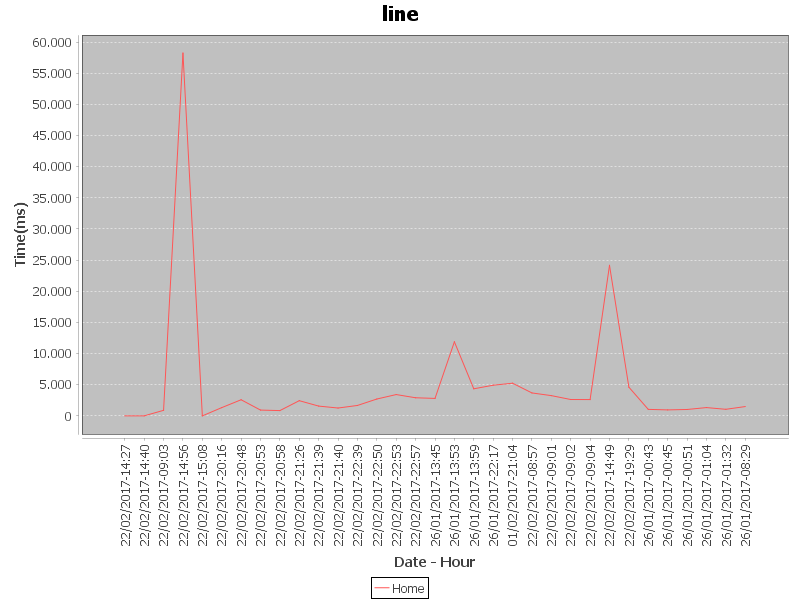
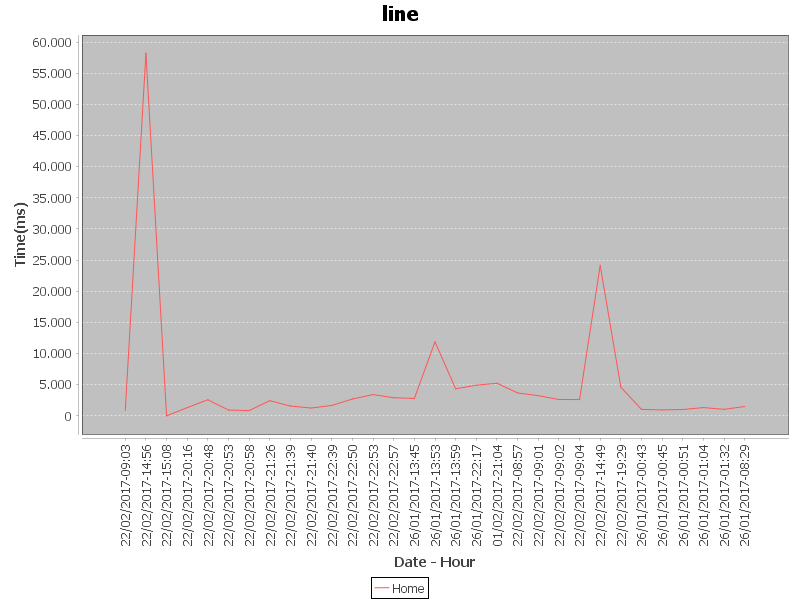
"Open test scenario" seems to be working fine

diff --git a/GUIViewIt/src/br/ufop/Main.java b/GUIViewIt/src/br/ufop/Main.java
@@ -463,21 +463,27 @@ public class Main extends Application {
             JAXBContext context = JAXBContext
                     .newInstance(TestScenarioListWrapper.class);
             Unmarshaller um = context.createUnmarshaller();
-            
-            System.out.println("1");
+
             try{
             	TestScenarioListWrapper wrapper = (TestScenarioListWrapper) um.unmarshal(file);
             	
-            	//JAXBContext jc = JAXBContext.newInstance(Customer.class, Address.class, PhoneNumber.class);
-            	System.out.println("2");
                 data.clear();
                 data.addAll(wrapper.getActions());
-                System.out.println("3");
-                for(int i = 0; i < data.size(); i++){
-                	System.out.println("Tamanho da lista de acoes: " + data.size());
-                	System.out.println(data);
-                }
-                
+//                System.out.println(wrapper.getX_times());
+//                System.out.println(wrapper.getY_interval());
+//                System.out.println(wrapper.getURL());
+                getTestInput().setX_times(wrapper.getX_times());
+                getTestInput().setY_interval(wrapper.getY_interval());
+                getTestInput().setURL(wrapper.getURL());
+//                System.out.println(getTestInput().getX_times());
+//                System.out.println(getTestInput().getY_interval());
+//                System.out.println(getTestInput().getURL());
+//                for(int i = 0; i < data.size(); i++){
+//                	System.out.println("Tamanho da lista de acoes: " + data.size());
+//                	System.out.println(data);
+//                }
+      
+                showTestCreationView();
                 setProjectFilePath(file);
             }
             catch(Exception e){
@@ -497,10 +503,10 @@ public class Main extends Application {
     
     public void saveTestScenarioDataToFile(File file) {
         try {
-        	for(int i = 0; i < data.size(); i++){
-            	System.out.println("Tamanho da lista de acoes: " + data.size());
-            	System.out.println(data);
-            }
+//        	for(int i = 0; i < data.size(); i++){
+//            	System.out.println("Tamanho da lista de acoes: " + data.size());
+//            	System.out.println(data);
+//            }
         	
             JAXBContext context = JAXBContext
                     .newInstance(TestScenarioListWrapper.class);
@@ -509,9 +515,17 @@ public class Main extends Application {
 
             TestScenarioListWrapper wrapper = new TestScenarioListWrapper();
             wrapper.setActions(data);
-
+            wrapper.setX_times(getTestInput().getX_times());
+            wrapper.setY_interval(getTestInput().getY_interval());
+            wrapper.setURL(getTestInput().getURL());
+//            System.out.println(getTestInput().getX_times());
+//            System.out.println(getTestInput().getY_interval());
+//            System.out.println(getTestInput().getURL());
+//            System.out.println(wrapper.getX_times());
+//            System.out.println(wrapper.getY_interval());
+//            System.out.println(wrapper.getURL());
+           
             m.marshal(wrapper, file);
-            
             setProjectFilePath(file);
             AlertMessage.showConfirmationAlert("Advanced Settings", "", "The test scenario has been saved successfully!");
         } catch (Exception e) {
@@ -550,6 +564,13 @@ public class Main extends Application {
     
     public TestInput getTestInput() {
     	return input;
+    }
+    
+    private void setTestInput(TestInput input) {
+    	this.input = input;
+    	System.out.println("main TestInput apos receber wrapper.input " + this.input);
+    	System.out.println(this.input.getX_times());
+    	System.out.println(this.input.getY_interval());
     }
     
     public ChartSuite getChartSuite() {

diff --git a/GUIViewIt/src/br/ufop/TestScenarioListWrapper.java b/GUIViewIt/src/br/ufop/TestScenarioListWrapper.java
@@ -3,8 +3,6 @@ package br.ufop;
 import java.util.List;
 
 import javax.xml.bind.annotation.XmlElement;
-import javax.xml.bind.annotation.XmlElementWrapper;
-import javax.xml.bind.annotation.XmlElements;
 import javax.xml.bind.annotation.XmlRootElement;
 import javax.xml.bind.annotation.XmlSeeAlso;
 
@@ -16,34 +14,53 @@ import br.ufop.performance.model.Navigating;
 import br.ufop.performance.model.PerformanceTestCase;
 import br.ufop.performance.model.SelectingOption;
 import br.ufop.performance.model.Submitting;
+import br.ufop.performance.model.TestInput;
 import br.ufop.performance.model.TestSuite;
 import br.ufop.performance.model.Typing;
 
 @XmlSeeAlso({PerformanceTestCase.class, CheckingAlert.class, CheckingBoxes.class, Clicking.class, ContextClicking.class,Navigating.class, SelectingOption.class, Submitting.class, TestSuite.class, Typing.class})
 @XmlRootElement(name="actions")
-//@XmlSeeAlso(PerformanceTestCase.class)
 public class TestScenarioListWrapper {
-
-//	@XmlElements({
-//        @XmlElement(name="click",type=Clicking.class),
-//        @XmlElement(name="type",type=Typing.class),
-//        @XmlElement(name="navigate",type=Navigating.class),
-//        @XmlElement(name="suit",type=TestSuite.class),
-//        @XmlElement(name="context",type=ContextClicking.class),
-//        @XmlElement(name="check",type=CheckingAlert.class),
-//        @XmlElement(name="checkBox",type=CheckingBoxes.class),
-//        @XmlElement(name="select",type=SelectingOption.class),
-//        @XmlElement(name="submit",type=Submitting.class),
-//    })
-//	@XmlElementWrapper(name="actions")
+	
+	private int x_times;
+	private int y_interval;
+	private String URL;
     private List<PerformanceTestCase> actions;
 
     @XmlElement(name = "action")
     public List<PerformanceTestCase> getActions() {
         return actions;
     }
-
+    
+    @XmlElement
+    public int getX_times() {
+    	return x_times;
+    }
+    
+    @XmlElement
+    public int getY_interval() {
+    	return y_interval;
+    }
+    
+    @XmlElement
+    public String getURL() {
+    	return URL;
+    }
+    
     public void setActions(List<PerformanceTestCase> actions) {
         this.actions = actions;
     }
+    
+    public void setX_times(int x_times){
+    	this.x_times = x_times;
+    }
+    
+    public void setY_interval(int y_interval){
+    	this.y_interval = y_interval;
+    }
+    
+    public void setURL(String URL) {
+    	this.URL = URL;
+    }
+   
 }

diff --git a/GUIViewIt/src/br/ufop/maingui/RootProjectController.java b/GUIViewIt/src/br/ufop/maingui/RootProjectController.java
@@ -13,9 +13,6 @@ public class RootProjectController {
 	private Main main;
 	
 	@FXML
-	private ToggleButton createButton;
-	
-	@FXML
 	private ToggleButton openButton;
 	
 	@FXML
@@ -36,37 +33,6 @@ public class RootProjectController {
 	public RootProjectController() {
 	}
 	
-	public void createButtonAction() {
-		//main.showChartCreationView();
-		File projectFile = main.getProjectFilePath();
-        if (projectFile != null) {
-            main.saveTestScenarioDataToFile(projectFile);
-        } else {
-            saveAs();
-        }
-	}
-	
-	 @FXML
-	 private void saveAs() {
-	        FileChooser fileChooser = new FileChooser();
-
-	        FileChooser.ExtensionFilter extFilter = new FileChooser.ExtensionFilter(
-	                "XML files (*.xml)", "*.xml");
-	        fileChooser.getExtensionFilters().add(extFilter);
-
-	        File file = fileChooser.showSaveDialog(main.getPrimaryStage());
-
-	        if (file != null) {
-
-	            if (!file.getPath().endsWith(".xml")) {
-	                file = new File(file.getPath() + ".xml");
-	                System.out.println("saveAs, file.getPath: " + file.getPath());
-	                System.out.println("saveAs, file: " + file);
-	            }
-	            main.saveTestScenarioDataToFile(file);
-	        }
-	 }
-
 	@FXML
 	private void openButtonAction() {
 		FileChooser fileChooser = new FileChooser();
@@ -94,9 +60,6 @@ public class RootProjectController {
         alert.showAndWait();
     }
 
-    /**
-     * Closes the application.
-     */
     @FXML
     private void exitAction() {
         System.exit(0);

diff --git a/GUIViewIt/src/br/ufop/performance/gui/ActionsSetController.java b/GUIViewIt/src/br/ufop/performance/gui/ActionsSetController.java
@@ -70,7 +70,7 @@ public class ActionsSetController {
 		if(control){
 			control = false;
 		}
-
+		
 		setTable();
 		
 		stepColumn.setCellValueFactory(new PropertyValueFactory<>("step"));
@@ -95,7 +95,11 @@ public class ActionsSetController {
     
     private void setTable(){
     	//sets tableview
+//    	for(int i = 0; i < main.getData().size(); i++) {
+//    		System.out.println(main.getData());
+//    	}
     	actionTable.setItems(main.getData());
+    	System.out.println(actionTable.getItems());
     	/*for (int i = 0; i < main.getData().size(); i++) {
     		System.out.println("Step: " + main.getData().get(i).stepProperty().get()+ "  Action: " + main.getData().get(i).actionProperty().get());
     	}*/	
@@ -181,7 +185,6 @@ public class ActionsSetController {
                 locatorLabel.setText("-");
                 optionToCheckLabel.setText("-");
             }
-       // });
     }
     
     public void newButton() {
@@ -213,7 +216,7 @@ public class ActionsSetController {
     }
     
     public void backButton() {
-    	
+    	main.showAdvancedSettingsView();
     }
 
 }

diff --git a/GUIViewIt/src/br/ufop/performance/model/PerformanceTestCase.java b/GUIViewIt/src/br/ufop/performance/model/PerformanceTestCase.java
@@ -9,7 +9,6 @@ import javafx.beans.property.SimpleStringProperty;
 import javafx.beans.property.StringProperty;
 
 @XmlSeeAlso({CheckingAlert.class, CheckingBoxes.class, Clicking.class, ContextClicking.class,Navigating.class, SelectingOption.class, Submitting.class, TestSuite.class, Typing.class})
-//@XmlTransient
 public abstract class PerformanceTestCase {
 
 	protected StringProperty stepProperty = new SimpleStringProperty();

diff --git a/GUIViewIt/src/br/ufop/performance/gui/RootTestController.java b/GUIViewIt/src/br/ufop/performance/gui/RootTestController.java
@@ -16,9 +16,6 @@ public class RootTestController {
 	@FXML
 	private ToggleButton openTestButton;
 	
-	@FXML
-	private ToggleButton removeTestButton;
-	
 	public void setMain(Main main) {
         this.main = main;
     }
@@ -45,8 +42,5 @@ public class RootTestController {
             main.loadTestScenarioDataFromFile(file);
         }
 	}
-	@FXML
-	private void removeTestButtonAction() {
-		
-	}
+
 }
